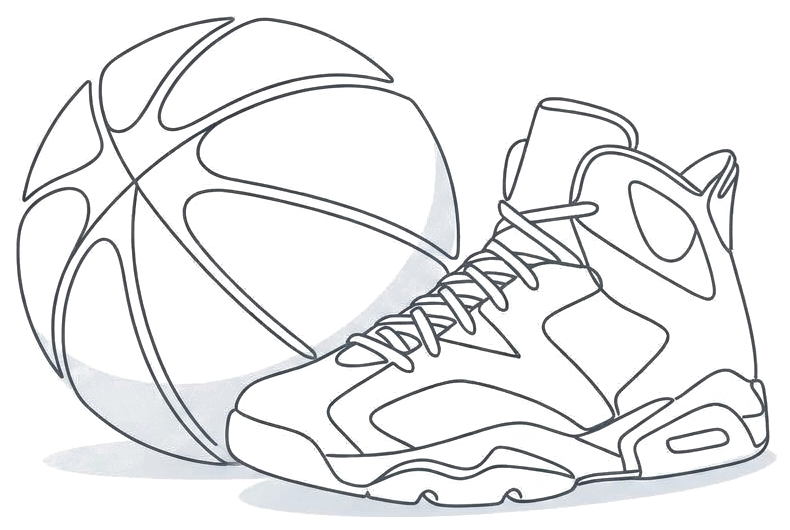
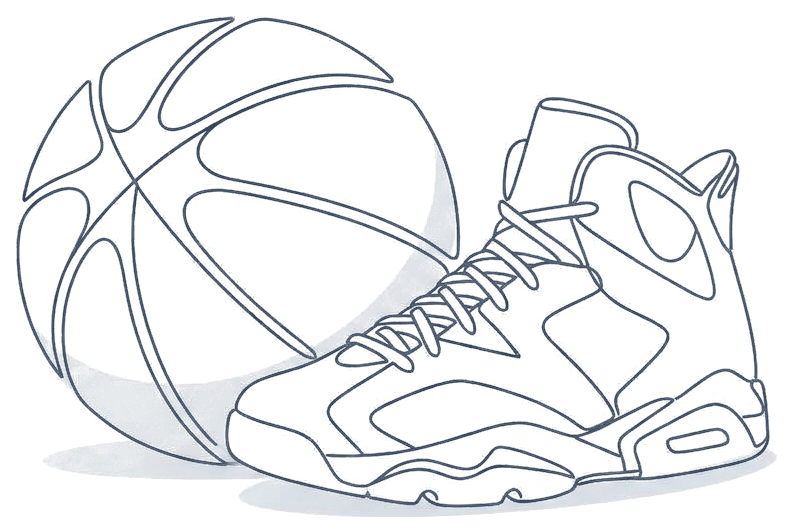
Aboutセクションのイラスト主線（輪郭線）を上品なスレートグレー（#334155）に調色・統一

diff --git a/index.html b/index.html
@@ -207,7 +207,7 @@
                     <div class="about-image slide-in-right">
     <div class="glass-card">
         <div class="card-logo">
-            <img src="basketball-line-art.webp?v=1.0" alt="MAD CLOVER バスケットボールイラスト" class="about-logo-img" width="320" height="215" loading="lazy" style="position: relative; top: 85px;">
+            <img src="basketball-line-art.webp?v=2.0" alt="MAD CLOVER バスケットボールイラスト" class="about-logo-img" width="320" height="215" loading="lazy" style="position: relative; top: 85px;">
         </div>
     </div>
 </div>
